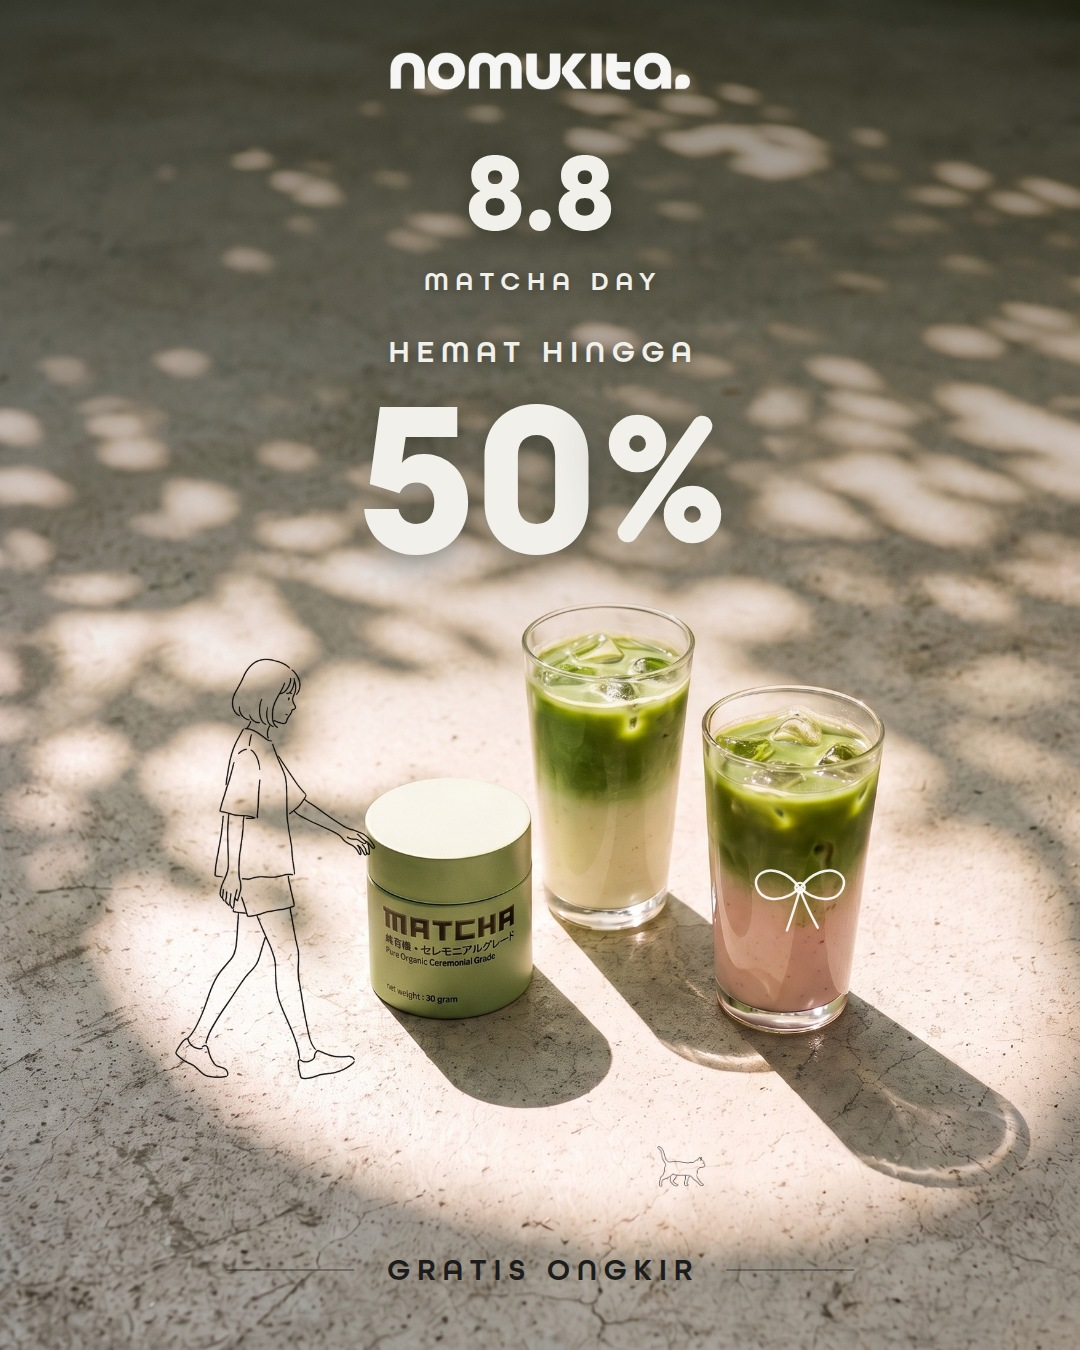
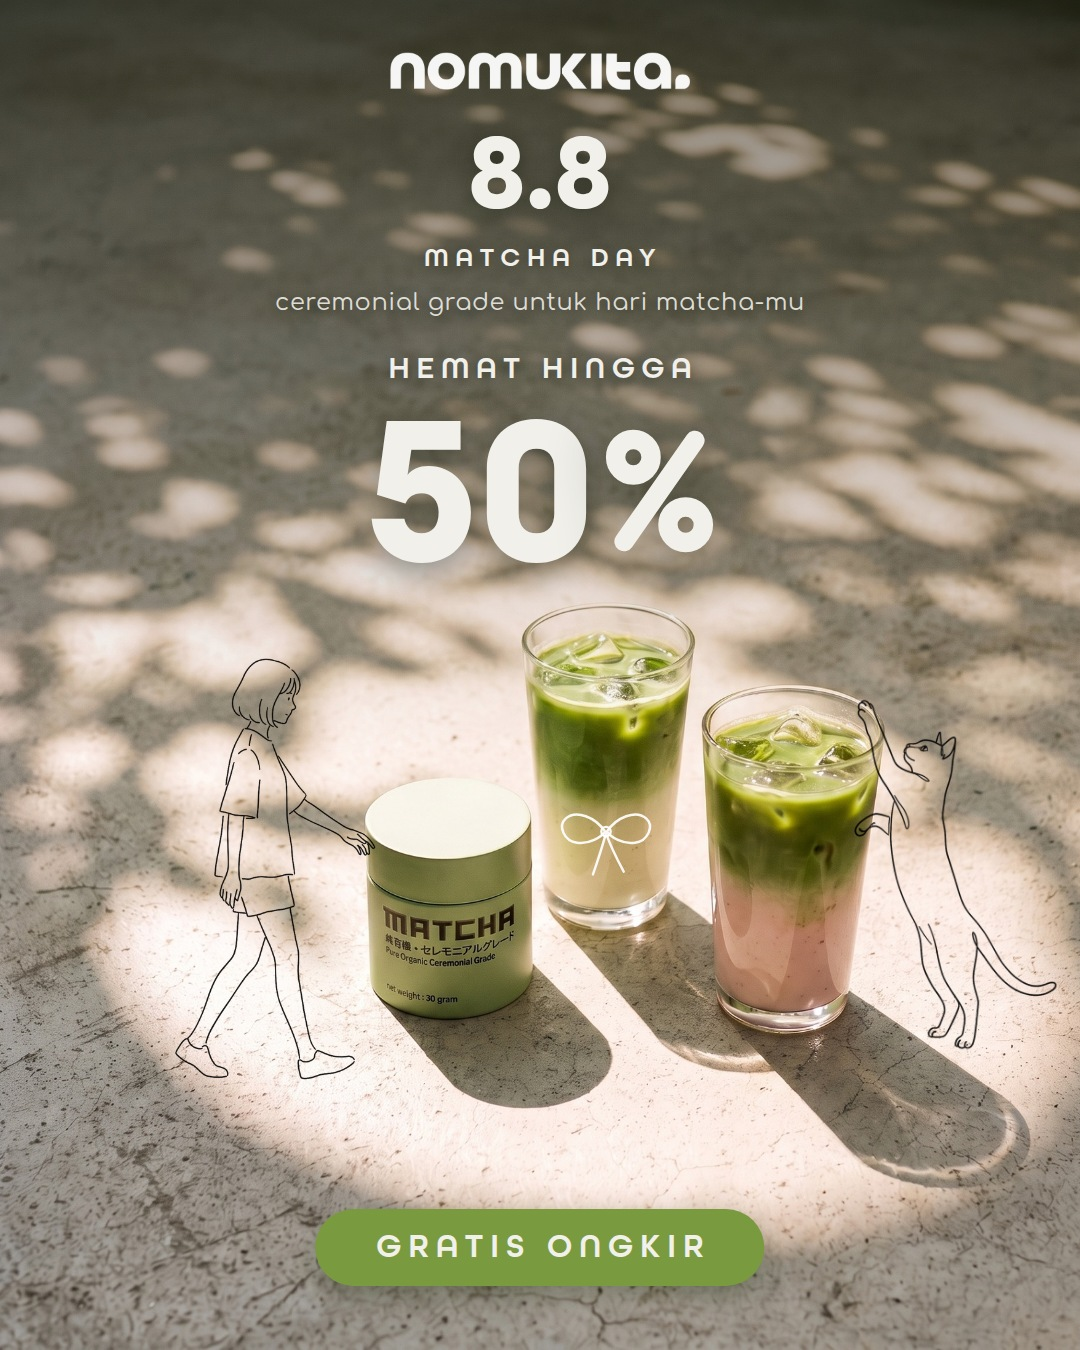
Make the 8.8 cat interact, add a supporting line, highlight Gratis Ongkir
Enlarging the walking cat would not have fixed it — the reference's charm
is that its figures touch the product, and a cat in profile cannot. Drew a
new pose instead: standing on its hind legs with a paw raised, mirroring
the woman reaching for the tin on the other side.

Placement is computed the same way as the woman. The raised paw sits at
33.8% across and 9.4% down the artwork, so paw-to-feet spans 90.6% of its
height; landing the feet on the glasses' ground line while the paw meets
the strawberry latte's rim fixes the height at 414px, up from 190px.

Copy gains a supporting line — "ceremonial grade untuk hari matcha-mu" —
built from the brand's own product vocabulary, so it reads as more than a
bare campaign name without breaking §6's no-hype rule.

Gratis Ongkir moves from charcoal text between hairlines to a solid matcha
pill in the design system's headline green. A solid fill holds anywhere on
the photograph, which thin charcoal type on lit concrete did not.

The bow moves to the tall glass now that the cat occupies the other one.

Claude-Session: https://claude.ai/code/session_01JLTZpkd5TWMrYgZzd5niuW

diff --git a/design/8.8/banner-55.html b/design/8.8/banner-55.html
@@ -33,34 +33,38 @@
   .logo{position:absolute;left:50%;top:52px;transform:translateX(-50%);width:300px;z-index:9;
     filter:brightness(0) invert(1) opacity(.95)}
 
-  .top{position:absolute;left:0;right:0;top:138px;z-index:8;text-align:center;color:var(--bone)}
-  .eight{font-family:var(--brand-display);font-size:112px;line-height:1;
+  .top{position:absolute;left:0;right:0;top:120px;z-index:8;text-align:center;color:var(--bone)}
+  .eight{font-family:var(--brand-display);font-size:108px;line-height:1;
     text-shadow:0 5px 24px rgba(18,24,14,.45)}
-  .day{margin-top:16px;font-family:var(--brand-label);font-size:26px;letter-spacing:7px;
+  .day{margin-top:14px;font-family:var(--brand-label);font-size:26px;letter-spacing:7px;
     text-indent:7px;text-shadow:0 3px 14px rgba(18,24,14,.5)}
 
+  /* Supporting line, Comfortaa lowercase per design system §3. */
+  .lede{margin-top:16px;font-family:var(--brand-body);font-size:24px;letter-spacing:.6px;
+    color:rgba(241,240,235,.90);text-shadow:0 3px 12px rgba(18,24,14,.55)}
+
   /* ── the discount: the loudest element on the banner ── */
-  .save{position:absolute;left:0;right:0;top:334px;z-index:8;text-align:center;color:var(--bone);
+  .save{position:absolute;left:0;right:0;top:350px;z-index:8;text-align:center;color:var(--bone);
     font-family:var(--brand-label);font-size:30px;letter-spacing:7px;text-indent:7px;
     text-shadow:0 3px 14px rgba(18,24,14,.5)}
-  .pct{position:absolute;left:0;right:0;top:370px;z-index:8;
+  .pct{position:absolute;left:0;right:0;top:386px;z-index:8;
     display:flex;align-items:flex-start;justify-content:center;gap:10px;color:var(--bone)}
-  .pct b{font-family:var(--brand-display);font-size:222px;line-height:1;
+  .pct b{font-family:var(--brand-display);font-size:212px;line-height:1;
     text-shadow:0 8px 30px rgba(18,24,14,.45)}
   /* The DEMO cut locks '%', '-', '°' and the digit 4 behind a watermark, so the
      percent is drawn as a vector with its stroke matched to the digits. */
   .pct svg{margin-top:24px;filter:drop-shadow(0 8px 30px rgba(18,24,14,.45))}
 
   /* ── foot, set into the lit concrete ── */
-  .foot{position:absolute;left:0;right:0;bottom:62px;z-index:9;
-    display:flex;align-items:center;justify-content:center;gap:26px}
-  .foot i{display:block;width:128px;height:1.5px;background:rgba(28,28,28,.36)}
-  .foot b{font-family:var(--brand-label);font-size:30px;letter-spacing:7px;text-indent:7px;
-    color:var(--charcoal)}
+  .foot{position:absolute;left:50%;bottom:64px;transform:translateX(-50%);z-index:9;
+    display:inline-flex;align-items:center;padding:21px 54px 23px;border-radius:999px;
+    background:var(--matcha);box-shadow:0 10px 26px rgba(30,46,18,.34)}
+  .foot b{font-family:var(--brand-label);font-size:33px;letter-spacing:7px;text-indent:7px;
+    color:var(--bone);line-height:1}
 
   .doodle{position:absolute;z-index:7;pointer-events:none}
   .girl{left:97px;top:583px;width:446px;opacity:.92}
-  .cat{left:596px;top:1016px;width:136px;opacity:.92}
+  .cat{left:752px;top:661px;width:334px;opacity:.92}
 </style>
 </head>
 <body>
@@ -73,12 +77,13 @@
   <div class="top">
     <div class="eight">8.8</div>
     <div class="day">MATCHA DAY</div>
+    <div class="lede">ceremonial grade untuk hari matcha-mu</div>
   </div>
 
   <div class="save">HEMAT HINGGA</div>
   <div class="pct">
     <b>55</b>
-    <svg width="114" height="170" viewBox="0 0 64 96" fill="none" aria-label="persen">
+    <svg width="109" height="162" viewBox="0 0 64 96" fill="none" aria-label="persen">
       <g stroke="#F1F0EB" stroke-width="11.5" fill="none">
         <circle cx="16.5" cy="28" r="10.5"/>
         <circle cx="47.5" cy="68" r="10.5"/>
@@ -88,17 +93,17 @@
   </div>
 
   <img class="doodle girl" src="assets/girl.png" alt="">
-  <img class="doodle cat"  src="assets/cat.png"  alt="">
+  <img class="doodle cat"  src="assets/cat-reach.png"  alt="">
 
   <!-- ribbon on the strawberry glass, as in the concept reference -->
-  <svg class="doodle" style="left:730px;top:846px;z-index:9" width="140" height="98" viewBox="0 0 150 104" fill="none">
+  <svg class="doodle" style="left:536px;top:790px;z-index:9" width="140" height="98" viewBox="0 0 150 104" fill="none">
     <path d="M74 44c-10-15-31-24-42-14-9 8-2 24 12 26 13 2 26-6 30-12Z" stroke="#fff" stroke-width="2.6" stroke-linejoin="round" opacity=".92"/>
     <path d="M76 44c10-15 31-24 42-14 9 8 2 24-12 26-13 2-26-6-30-12Z" stroke="#fff" stroke-width="2.6" stroke-linejoin="round" opacity=".92"/>
     <path d="M75 46c-4 14-9 30-14 44M75 46c5 14 12 28 19 41" stroke="#fff" stroke-width="2.6" stroke-linecap="round" opacity=".92"/>
     <circle cx="75" cy="44" r="5" stroke="#fff" stroke-width="2.6" opacity=".92"/>
   </svg>
 
-  <div class="foot"><i></i><b>GRATIS ONGKIR</b><i></i></div>
+  <div class="foot"><b>GRATIS ONGKIR</b></div>
 </div>
 </body>
 </html>

diff --git a/design/8.8/banner.html b/design/8.8/banner.html
@@ -33,34 +33,38 @@
   .logo{position:absolute;left:50%;top:52px;transform:translateX(-50%);width:300px;z-index:9;
     filter:brightness(0) invert(1) opacity(.95)}
 
-  .top{position:absolute;left:0;right:0;top:138px;z-index:8;text-align:center;color:var(--bone)}
-  .eight{font-family:var(--brand-display);font-size:112px;line-height:1;
+  .top{position:absolute;left:0;right:0;top:120px;z-index:8;text-align:center;color:var(--bone)}
+  .eight{font-family:var(--brand-display);font-size:108px;line-height:1;
     text-shadow:0 5px 24px rgba(18,24,14,.45)}
-  .day{margin-top:16px;font-family:var(--brand-label);font-size:26px;letter-spacing:7px;
+  .day{margin-top:14px;font-family:var(--brand-label);font-size:26px;letter-spacing:7px;
     text-indent:7px;text-shadow:0 3px 14px rgba(18,24,14,.5)}
 
+  /* Supporting line, Comfortaa lowercase per design system §3. */
+  .lede{margin-top:16px;font-family:var(--brand-body);font-size:24px;letter-spacing:.6px;
+    color:rgba(241,240,235,.90);text-shadow:0 3px 12px rgba(18,24,14,.55)}
+
   /* ── the discount: the loudest element on the banner ── */
-  .save{position:absolute;left:0;right:0;top:334px;z-index:8;text-align:center;color:var(--bone);
+  .save{position:absolute;left:0;right:0;top:350px;z-index:8;text-align:center;color:var(--bone);
     font-family:var(--brand-label);font-size:30px;letter-spacing:7px;text-indent:7px;
     text-shadow:0 3px 14px rgba(18,24,14,.5)}
-  .pct{position:absolute;left:0;right:0;top:370px;z-index:8;
+  .pct{position:absolute;left:0;right:0;top:386px;z-index:8;
     display:flex;align-items:flex-start;justify-content:center;gap:10px;color:var(--bone)}
-  .pct b{font-family:var(--brand-display);font-size:222px;line-height:1;
+  .pct b{font-family:var(--brand-display);font-size:212px;line-height:1;
     text-shadow:0 8px 30px rgba(18,24,14,.45)}
   /* The DEMO cut locks '%', '-', '°' and the digit 4 behind a watermark, so the
      percent is drawn as a vector with its stroke matched to the digits. */
   .pct svg{margin-top:24px;filter:drop-shadow(0 8px 30px rgba(18,24,14,.45))}
 
   /* ── foot, set into the lit concrete ── */
-  .foot{position:absolute;left:0;right:0;bottom:62px;z-index:9;
-    display:flex;align-items:center;justify-content:center;gap:26px}
-  .foot i{display:block;width:128px;height:1.5px;background:rgba(28,28,28,.36)}
-  .foot b{font-family:var(--brand-label);font-size:30px;letter-spacing:7px;text-indent:7px;
-    color:var(--charcoal)}
+  .foot{position:absolute;left:50%;bottom:64px;transform:translateX(-50%);z-index:9;
+    display:inline-flex;align-items:center;padding:21px 54px 23px;border-radius:999px;
+    background:var(--matcha);box-shadow:0 10px 26px rgba(30,46,18,.34)}
+  .foot b{font-family:var(--brand-label);font-size:33px;letter-spacing:7px;text-indent:7px;
+    color:var(--bone);line-height:1}
 
   .doodle{position:absolute;z-index:7;pointer-events:none}
   .girl{left:97px;top:583px;width:446px;opacity:.92}
-  .cat{left:596px;top:1016px;width:136px;opacity:.92}
+  .cat{left:752px;top:661px;width:334px;opacity:.92}
 </style>
 </head>
 <body>
@@ -73,12 +77,13 @@
   <div class="top">
     <div class="eight">8.8</div>
     <div class="day">MATCHA DAY</div>
+    <div class="lede">ceremonial grade untuk hari matcha-mu</div>
   </div>
 
   <div class="save">HEMAT HINGGA</div>
   <div class="pct">
     <b>50</b>
-    <svg width="114" height="170" viewBox="0 0 64 96" fill="none" aria-label="persen">
+    <svg width="109" height="162" viewBox="0 0 64 96" fill="none" aria-label="persen">
       <g stroke="#F1F0EB" stroke-width="11.5" fill="none">
         <circle cx="16.5" cy="28" r="10.5"/>
         <circle cx="47.5" cy="68" r="10.5"/>
@@ -88,17 +93,17 @@
   </div>
 
   <img class="doodle girl" src="assets/girl.png" alt="">
-  <img class="doodle cat"  src="assets/cat.png"  alt="">
+  <img class="doodle cat"  src="assets/cat-reach.png"  alt="">
 
   <!-- ribbon on the strawberry glass, as in the concept reference -->
-  <svg class="doodle" style="left:730px;top:846px;z-index:9" width="140" height="98" viewBox="0 0 150 104" fill="none">
+  <svg class="doodle" style="left:536px;top:790px;z-index:9" width="140" height="98" viewBox="0 0 150 104" fill="none">
     <path d="M74 44c-10-15-31-24-42-14-9 8-2 24 12 26 13 2 26-6 30-12Z" stroke="#fff" stroke-width="2.6" stroke-linejoin="round" opacity=".92"/>
     <path d="M76 44c10-15 31-24 42-14 9 8 2 24-12 26-13 2-26-6-30-12Z" stroke="#fff" stroke-width="2.6" stroke-linejoin="round" opacity=".92"/>
     <path d="M75 46c-4 14-9 30-14 44M75 46c5 14 12 28 19 41" stroke="#fff" stroke-width="2.6" stroke-linecap="round" opacity=".92"/>
     <circle cx="75" cy="44" r="5" stroke="#fff" stroke-width="2.6" opacity=".92"/>
   </svg>
 
-  <div class="foot"><i></i><b>GRATIS ONGKIR</b><i></i></div>
+  <div class="foot"><b>GRATIS ONGKIR</b></div>
 </div>
 </body>
 </html>

diff --git a/design/8.8/README.md b/design/8.8/README.md
@@ -64,15 +64,21 @@ Design system §6: tanpa kata promosi berlebihan, tanpa tanda seru, tanpa klaim
 kesehatan. Headline & info teknis Inggris, boleh campur Indonesia.
 
 Copy di banner ini memakai frasa brand yang sudah ada: **"HEMAT HINGGA"** (dari
-`Diskon Banner_BAU`) dan **"GRATIS ONGKIR"**. Tagline "bring the cafe home"
-sempat dipakai lalu dihapus atas permintaan — kanvas jadi lebih lega.
+`Diskon Banner_BAU`) dan **"GRATIS ONGKIR"**, ditambah satu baris pendukung
+**"ceremonial grade untuk hari matcha-mu"** — memakai istilah produk mereka
+sendiri, tanpa kata promosi berlebihan. Tagline "bring the cafe home" sempat
+dipakai lalu dihapus atas permintaan.
+
+**Gratis Ongkir memakai pill hijau matcha** (`#7A9A3F`, warna headline design
+system) dengan teks bone white. Sebelumnya berupa teks charcoal bergaris tipis
+dan kurang menonjol; pill berlatar solid terbaca di bagian foto mana pun.
 
 ## Aset
 
 | File | Asal |
 |---|---|
 | `assets/photo.jpg` | `nano-banana-pro`, dengan mockup kaleng asli sebagai `image_input` |
-| `assets/girl.png`, `cat.png` | `nano-banana-pro` line art, latar putih dikeykan jadi transparan |
+| `assets/girl.png`, `cat-reach.png` | `nano-banana-pro` line art, latar putih dikeykan jadi transparan |
 | `assets/logo.png` | file logo brand asli |
 
 **Label kaleng wajib diperiksa kalau foto digenerate ulang.** Generate pertama
@@ -105,6 +111,20 @@ Dengan target ujung jari di tepi kiri-atas kaleng, hasilnya `left:97 top:583
 width:446`. Kaki dan badannya berhenti di 57,7% lebar, jadi tidak menutupi
 kaleng — hanya lengannya yang melintas.
 
-Warna garisnya hitam, jadi posisinya harus jatuh di beton terang. Kecerahan yang
-terukur: `x 596–732, y 1016` bernilai ~222 (aman untuk kucing), sedangkan
-`x 120, y 1078` hanya ~150 — di situ kucing sempat hilang.
+Kucingnya memakai rumus yang sama. Cakar terangkatnya ada di **33,8% lebar** dan
+**9,4% tinggi** artwork, jadi jarak cakar-ke-kaki adalah 90,6% tingginya. Supaya
+kakinya menapak garis tanah gelas (y 1075) dan cakarnya menyentuh bibir gelas
+strawberry (y 700), tingginya harus 414 px:
+
+```
+tinggi = (y_kaki − y_cakar) / 0,906     left = x_cakar − 0,338 × lebar
+```
+
+Hasilnya `left:752 top:661 width:334`. Pose berdiri-menggapai ini digenerate
+khusus — pose berjalan sebelumnya hanya bisa diperbesar, tidak bisa berinteraksi
+dengan produk seperti pada referensi.
+
+Warna garisnya hitam, jadi posisinya harus jatuh di beton terang. Untuk kotak
+sebesar kucing ini seluruh area bawah setara (rata-rata ~176–182), jadi posisi
+dipilih berdasarkan komposisi. Untuk elemen kecil bedanya nyata: `x 596, y 1016`
+bernilai ~222 sedangkan `x 120, y 1078` hanya ~150 — di situ kucing sempat hilang.
